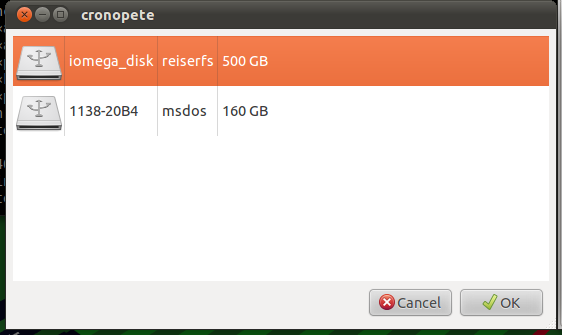
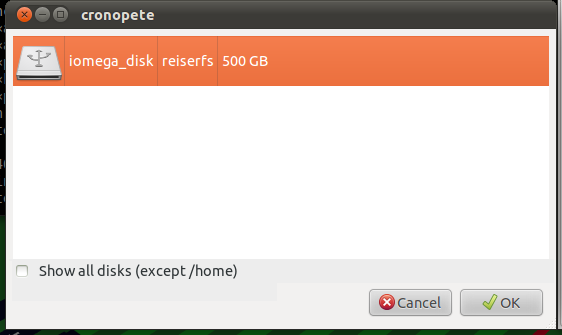
Updated documentation

Changed region(s): [[0.0302, 0.7761, 0.4235, 0.8358], [0.0302, 0.2687, 0.242, 0.3881], [0.2722, 0.2985, 0.484, 0.3582]]

diff --git a/doc/README.html b/doc/README.html
@@ -1,6 +1,6 @@
 <html>
   <head>
-    <title>Cronopete 3.4.0</title>
+    <title>Cronopete 3.15.0</title>
     <style type="text/css" media="all">
       .menu { background-color: #dddbd8; }
       .filename { color: green; }
@@ -8,7 +8,7 @@
     </style>
   </head>
 <body>
-<div align="center"><h1>CRONOPETE 3.14.0</h1></div>
+<div align="center"><h1>CRONOPETE 3.15.0</h1></div>
 
 <p>The Apple's TimeMachine clone for Linux</p>
 
@@ -64,7 +64,7 @@ a temporal backup (one that is still being made).</p>
 
 <p>Cronopete is written in Vala, so you need to install it:</p>
 <p><ul>
-<li>A recent version of Vala (0.16 or later)</li>
+<li>A recent version of Vala (0.20 or later)</li>
 <li>GSL library</li>
 <li>Gee library</li>
 <li>GTK+ 2.20 or later, or GTK+ 3.0 or later</li>
@@ -112,10 +112,15 @@ up, or can't access into a folder). If it's green or white, all is working fine.
 <p>The first thing to do is to choose the external hard disk to use to do the backups. By clicking the <span class="menu">Change disk</span> button a windows with the currently
 mounted USB hard disks will be shown:</p>
 <div align="center"><img src="cronopete4.png" /></div>
+<p>By default only the USB drives will be shown, but if the option <i>Show all disks (except /home)</i> is marked, all other hard disks in the system will be shown,
+except the one where the <i>/home</i> personal folder is. This is because Cronopete is a backup program, and a backup never should be in the same physical disk than
+the data to be backed up, because in case the disk fails, both the original data and the backup would be lost.</p>
+<div align="center"><img src="cronopete4b.png" /></div>
 <p>If we choose the MSDOS/FAT formatted disk, a new window will be shown:</p>
 <div align="center"><img src="cronopete6.png" /></div>
-<p>The best file system to use is ReiserFS because it supports <a href="http://en.wikipedia.org/wiki/Tail_packing">tail packing</a>, which allows to optimize
-the disk usage; but EXT3/EXT4 is also allowed. BTRFS is not allowed because it still has bugs which prevents it to be reliabely used with cronopete.</p>
+<p>Cronopete supports both ReiserFS and Ext3/Ext4, but to use the former, the user must manually format the drive and ensure that it has permissions for reading and
+writting; if Cronopete formats a drive, will do it in Ext4 format. BTRFS is not allowed because it still has bugs which prevents it to be reliabely used with
+cronopete.</p>
 <p>If you click the <span class="menu">Format disk</span> button, cronopete will try to format the disk in ReiserFS format; if it fails (let's say, because reiserfstools are not
 installed in the system), then it will try to format it in EXT4 format. Of course, this operation will erase all the data in the external disk.</p>
 <p>When the disk is ready, cronopete will show its main window like this:</p>
@@ -165,6 +170,15 @@ or with the program <span class="command">/usr/bin/cronopete_restore</span></li>
 
 <h2>History of versions</h2>
 <ul>
+
+<li>Version 3.15.0 (2013/10/26)</li>
+<li>Now doesn't hang when trying to set the partition type during disk formating</li>
+<li>Changed the schema path from <i>apps.cronopete</i> to <i>org.rastersoft.cronopete</i> to be compliant with the Gnome rules (requires reconfiguration!!!)</li>
+<li>Removed formating in ReiserFS; now only formats in Ext4, but still supports ReiserFS if formated manually by the user</li>
+<li>Allows to show the non-usb disks directly from the interface</li>
+<li>Now automounts the drive during launch</li>
+<li>Build system migrated to Autovala+CMake</li>
+<li>The code now uses the data automatically detected by Autovala</li>
 
 <li>Version 3.14.0 (2013/06/15)</li>
 <li>Fixed the refresh bug when the timer line has to do a big jump.</li>
